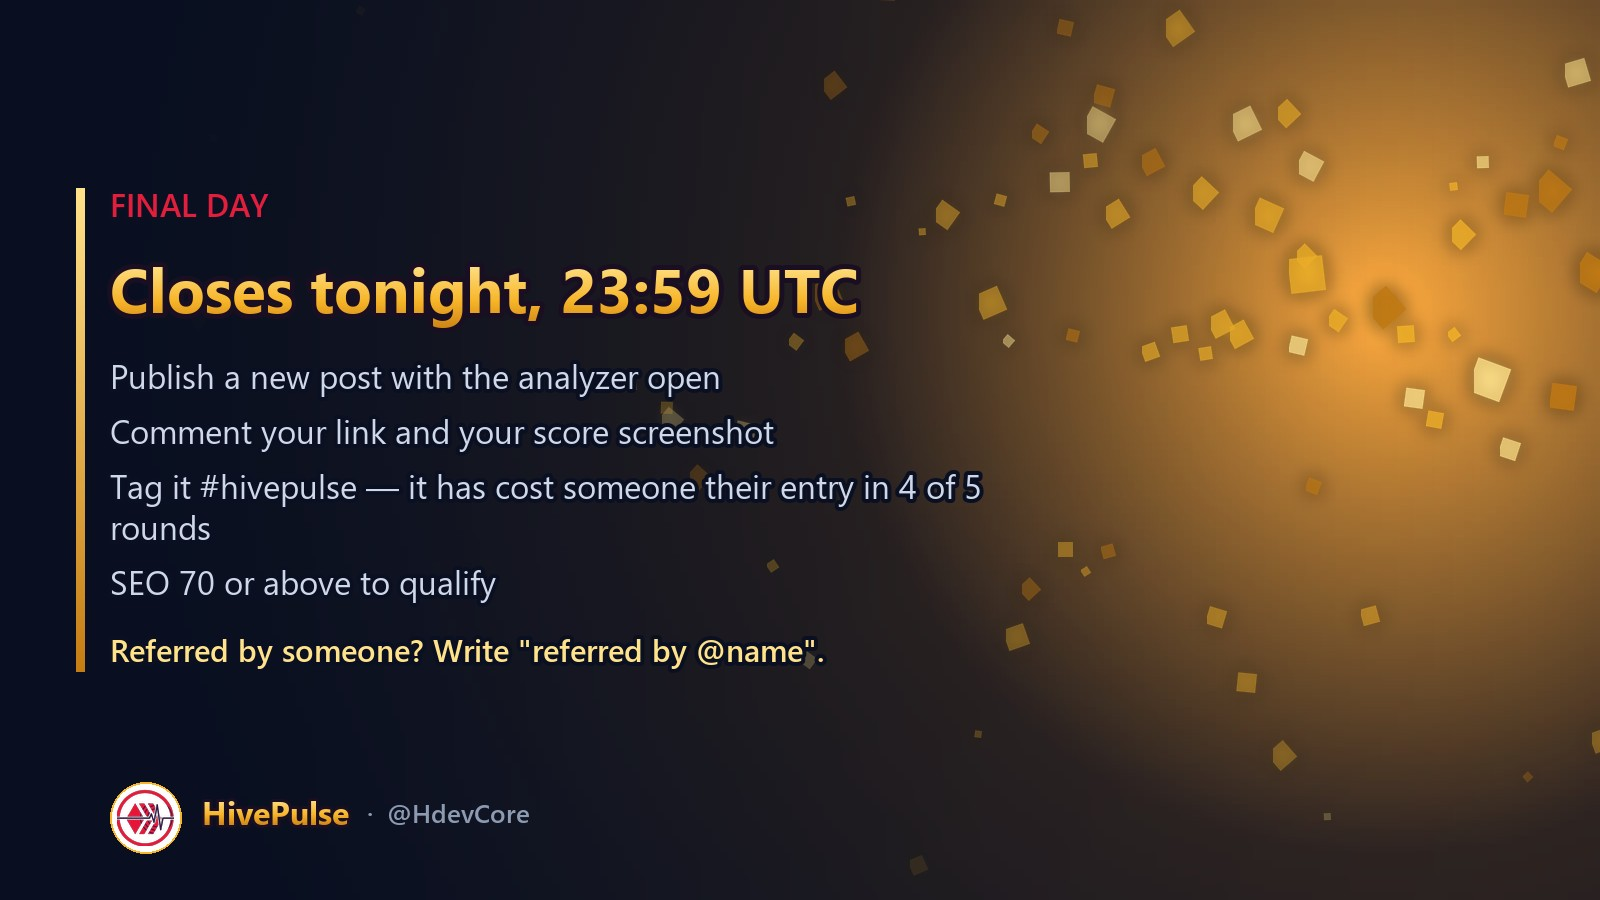
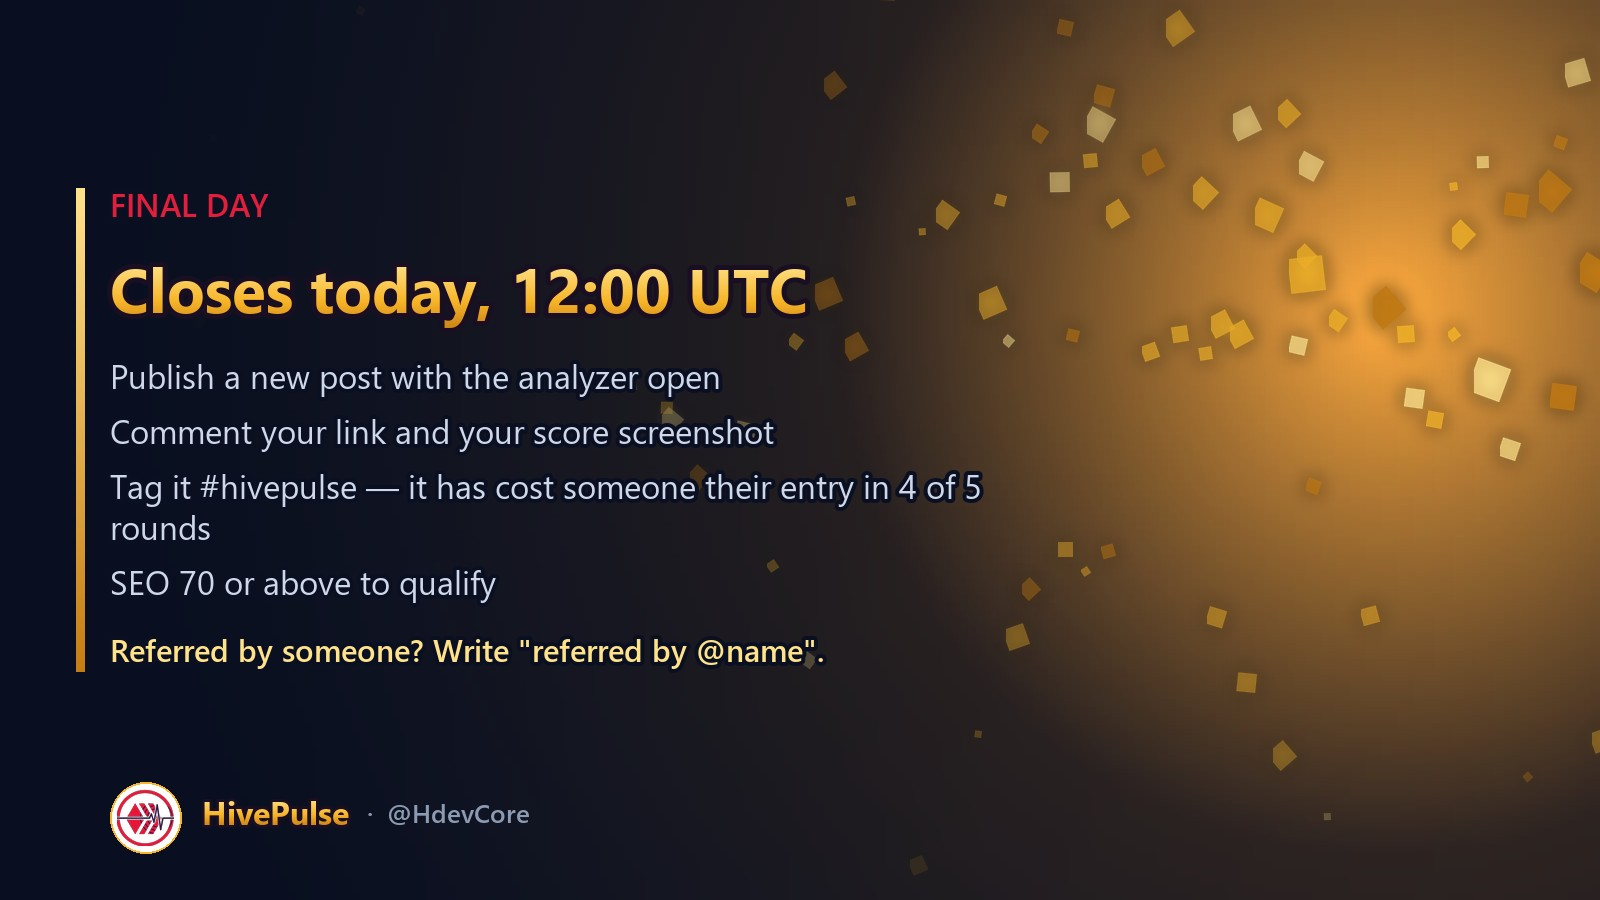
docs: contest deadline moved to 12:00 UTC, propagated everywhere
The user changed the week-6 deadline to 12:00 UTC on the closing day, and had already
edited the X thread and Discord copy. Everything else still said 23:59, which mattered:
three separate places told entrants they had until midnight.

Updated: both markdown packs (6 remaining occurrences), the tier card, the final-day card
and the contest cover. All regenerated and visually checked -- the cover now reads "Closes
8 September 2026, 12:00 UTC" and the tier card "Closes 8 September, 12:00 UTC".

The tier card's --closes flag now takes the whole "date, time UTC" string rather than
appending a hardcoded 23:59, so a future time change cannot leave a stale suffix behind.

12:00 also fixes a real problem rather than just moving a number: judging happens around
11:30 UTC on the Tuesday, so a 23:59 deadline was quietly excluding anyone who published
during the afternoon of the closing day. The stated deadline now matches when entries are
actually read.

Week-6 tweets re-verified: 16 tweets, none over 280.

Changed region(s): [[0.2188, 0.28, 0.5312, 0.3733]]

diff --git a/scripts/make_week5_charts.py b/scripts/make_week5_charts.py
@@ -66,7 +66,7 @@ TIERS = [
 ]
 
 
-def tier_card(entries, out, closes='1 September'):
+def tier_card(entries, out, closes='1 September, 23:59 UTC'):
     im = bs.gold_ground(W, H, bloom=(0.90, 0.24), intensity=0.92)
     d = ImageDraw.Draw(im)
 
@@ -138,7 +138,7 @@ def tier_card(entries, out, closes='1 September'):
 
     bs.badge(im, 100, H - 118, d=72)
     bs.wordmark(im, 190, H - 110, size=32)
-    d.text((W - 100, H - 92), f'Closes {closes}, 23:59 UTC',
+    d.text((W - 100, H - 92), f'Closes {closes}',
            font=font('semi', 25), fill=bs.INK_2, anchor='rm',
            stroke_width=4, stroke_fill=(10, 16, 34))
 
@@ -240,7 +240,8 @@ if __name__ == '__main__':
     ap = argparse.ArgumentParser()
     ap.add_argument('--entries', type=int, default=2)
     ap.add_argument('--week', default='w5', help="output prefix, e.g. w6")
-    ap.add_argument('--closes', default='1 September', help="deadline shown on the tier card")
+    ap.add_argument('--closes', default='1 September, 23:59 UTC',
+                    help="full deadline string shown on the tier card")
     a = ap.parse_args()
     od = 'enhancements/images/social'
     os.makedirs(od, exist_ok=True)

diff --git a/scripts/make_week6_cards.py b/scripts/make_week6_cards.py
@@ -81,7 +81,7 @@ CARDS = [
         'blocks': [
             {'text': 'FINAL DAY', 'size': 32, 'weight': 'semi',
              'color': bs.CRIMSON, 'gap': 24},
-            {'text': 'Closes tonight, 23:59 UTC', 'size': 62, 'gold': True, 'gap': 30},
+            {'text': 'Closes today, 12:00 UTC', 'size': 62, 'gold': True, 'gap': 30},
             {'text': 'Publish a new post with the analyzer open', 'size': 33,
              'weight': 'reg', 'color': bs.INK_2, 'gap': 14},
             {'text': 'Comment your link and your score screenshot', 'size': 33,

diff --git a/scripts/make_week6_cover.py b/scripts/make_week6_cover.py
@@ -80,7 +80,7 @@ def main():
                stroke_width=4, stroke_fill=SHADOW)
     d.line([(W // 2, by + 6), (W // 2, by + 96)], fill=(72, 88, 120), width=2)
 
-    d.text((W // 2, H - 62), 'Closes 8 September 2026, 23:59 UTC   ·   Tag #hivepulse',
+    d.text((W // 2, H - 62), 'Closes 8 September 2026, 12:00 UTC   ·   Tag #hivepulse',
            font=bs.font('semi', 30), fill=bs.INK_2, anchor='mm',
            stroke_width=5, stroke_fill=SHADOW)
 

diff --git a/enhancements/seo-contest-week6-announcement.md b/enhancements/seo-contest-week6-announcement.md
@@ -1,7 +1,7 @@
 # HivePulse SEO Contest — Week 5 Results + Week 6 Campaign Pack
 
 Judged **1 September 2026** from the comments on the [week-5 post](https://peakd.com/@hdev/hivepulse-seo-contest-new-week-5-prize-pool-500-hive).
-Week 6 runs **1 September → 8 September 2026, 23:59 UTC**.
+Week 6 runs **1 September → 8 September 2026, 12:00 UTC**.
 
 Scored with `node scripts/judge-contest.mjs entries-week5.txt`, window 25 Aug → 1 Sep,
 every score re-derived from the published post rather than the screenshot.
@@ -307,7 +307,7 @@ Pick one. Add your screenshot if you have one — posts with an image travel fur
 - It has to **quote-retweet our week-6 announcement**, not be a standalone post
 - It has to be **your own words and your own experience**
 - **No engagement farming.** Follow-for-follow, like-for-like, reply-chain rings and bought engagement are disqualified. We will look before paying.
-- Counted at week 6 close, **8 September 23:59 UTC**
+- Counted at week 6 close, **8 September 12:00 UTC**
 
 **One honest caveat about this format.** Engagement rewards reach, and reach follows follower count — so a large account starts ahead of a small one no matter how good the post is. We are trying it because our problem right now is distribution, not taste. If it turns into "the biggest account always wins", we will change it again and say so.
 
@@ -321,7 +321,7 @@ Pick one. Add your screenshot if you have one — posts with an image travel fur
 4. **Tag the post `#hivepulse`.** Enforced. It has cost someone their entry in four of five rounds.
 5. Referred by someone? Write **exactly** `referred by @username` in your comment — that wording, so nothing gets missed — and you both earn 25 HIVE.
 
-**Runs 1 September → 8 September 2026, 23:59 UTC.** Minimum SEO score of 70. One entry per person; post several and your best tagged one counts. Any language welcome.
+**Runs 1 September → 8 September 2026, 12:00 UTC.** Minimum SEO score of 70. One entry per person; post several and your best tagged one counts. Any language welcome.
 
 ## Where the points actually are
 
@@ -390,7 +390,7 @@ Quote this tweet with anything true about using HivePulse. Your score screenshot
 Most likes + reposts + replies by 8 Sept wins.
 
 **8/**
-Week 6 runs to 8 Sept, 23:59 UTC.
+Week 6 runs to 8 Sept, 12:00 UTC.
 
 1⃣ Install HivePulse (free)
 2⃣ Optimize & publish
@@ -423,4 +423,4 @@ Full details 👉 [PASTE_HIVE_POST_URL]
 >
 > Quote our announcement with anything true about using HivePulse — your score screenshot, what surprised you, one before/after sentence. Your own words, no engagement farming.
 >
-> 🗓 **Week 6 is open now, closing 8 September, 23:59 UTC.** Link **and** screenshot in the comments, tag `#hivepulse`, and add "referred by @username" if someone brought you.
+> 🗓 **Week 6 is open now, closing 8 September, 12:00 UTC.** Link **and** screenshot in the comments, tag `#hivepulse`, and add "referred by @username" if someone brought you.

diff --git a/enhancements/x-plan-week6.md b/enhancements/x-plan-week6.md
@@ -1,6 +1,6 @@
 # X plan — week 6 (1 → 8 Sep 2026)
 
-Account **@HdevCore**. Contest closes **Tue 8 Sep, 23:59 UTC**.
+Account **@HdevCore**. Contest closes **Tue 8 Sep, 12:00 UTC**.
 Hive post is live: https://actifit.io/hive-177727/@hdev/hivepulse-seo-contest-week-6-open-up-to-500-hive
 
 Verify every tweet before posting:
@@ -190,7 +190,7 @@ https://actifit.io/hive-177727/@hdev/hivepulse-seo-contest-week-6-open-up-to-500
 *Image: `social/w6-final.jpg`*
 
 ```tweet tue-main
-Final day. Closes tonight, 23:59 UTC.
+Final day. Closes tonight, 12:00 UTC.
 
 Publish, score it, comment your link and your screenshot, tag #hivepulse.
 
@@ -251,7 +251,7 @@ python scripts/make_week6_cards.py
 | `w6-qrt.jpg` | Card headlined "Most engagement wins", explaining that the 50 HIVE X prize now goes to the quote-retweet with the most likes, reposts and replies by 8 September. |
 | `w6-images.jpg` | Card headlined "Your images are text too", contrasting a filename used as image alt text with a real description, and noting the week 5 runner-up scored 97 doing the latter across 24 photos. |
 | `w6-referral.jpg` | Card showing the two referrals that paid out in week 5, each earning 25 HIVE for both the referrer and the person they brought. |
-| `w6-final.jpg` | Final-day card listing the four entry steps for the HivePulse SEO Contest above the 23:59 UTC deadline. |
+| `w6-final.jpg` | Final-day card listing the four entry steps for the HivePulse SEO Contest above the 12:00 UTC deadline. |
 
 ## What to watch
 
